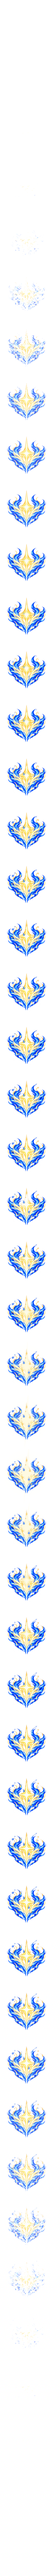
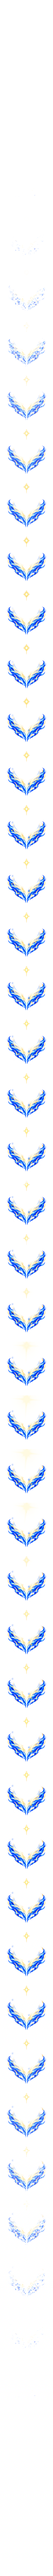
Chakra Overflow animation: crown layout (star on top of the head, character kept clear), in-battle previews, layout guide
Claude-Session: https://claude.ai/code/session_01BK7FehqLqgE1qdDYPV9z98

Changed region(s): [[0.2188, 0.125, 0.7812, 0.875]]

diff --git a/art/jutsu_icons/chakra_overflow/animation/build_strip.py b/art/jutsu_icons/chakra_overflow/animation/build_strip.py
@@ -23,6 +23,12 @@ FIT = 0.80          # composition scaled into the central 80% so the rise and sp
 U = W * FIT / SRC   # raw-pixel to working-pixel factor
 
 STAR_SX, STAR_SY, STAR_DY = 0.84 * 0.80, 0.84, -90   # final star, measured against K4
+# 'crown' layout (director, 2026-10-23: "I like it on top of the head"): measured from the director's battle recording,
+# the frame is centred on the tile and the character token's centre sits 0.283 of the frame from the top, radius 0.248.
+TOKEN_CY, TOKEN_R = 0.283, 0.248
+WINDOW_R = 0.96 * TOKEN_R                               # clear window, just inside the token's white rim
+CROWN_STAR_Y = 0.075                                    # star centre, frame fraction from the top (on top of the head)
+CROWN_STAR = 0.40                                       # star scale for the top-of-head position
 WING_S, WING_DY = 0.98, 10
 
 
@@ -83,11 +89,12 @@ def apply_dissolve(img, field, p, soft=0.14):
     return Image.fromarray(a.clip(0, 255).astype(np.uint8), 'RGBA')
 
 
-def glint_sparkle(size, rot_deg):
+def glint_sparkle(size, rot_deg, cy=None):
     """A crisp four-point lens glint: long thin horizontal and vertical rays, short diagonal rays, a hot core.
     Returned as a white RGBA layer of the working canvas size, centered."""
     yy, xx = np.mgrid[0:W, 0:W].astype(np.float32)
-    cx, cy = W / 2, W / 2 + STAR_DY * U
+    cx = W / 2
+    cy = W / 2 + STAR_DY * U if cy is None else cy
     th = np.deg2rad(rot_deg)
     x = (xx - cx) * np.cos(th) + (yy - cy) * np.sin(th)
     y = -(xx - cx) * np.sin(th) + (yy - cy) * np.cos(th)
@@ -113,16 +120,28 @@ def brighten(img, mask_alpha, amount):
     return Image.fromarray(a.clip(0, 255).astype(np.uint8), 'RGBA')
 
 
-def build(n_frames):
+def build(n_frames, layout="crown"):
     """v5 (director): dissolve in and out with a longer hold, and a glimmer while it holds: a band of light sweeps
     across the star, the star shines brighter, and a crisp four-point glint flares at its heart, then winks out.
     Timeline over the whole run: dissolve in 0-0.27, hold 0.27-0.73 (glint 0.42-0.64), dissolve out 0.73-1."""
     star, wings, flash, sparks = (load(f) for f in ('anim_co_L1_star.png', 'anim_co_L2_wings.png',
                                                      'anim_co_L3_flash.png', 'anim_co_L4_sparks.png'))
-    emblem = Image.new('RGBA', (W, W), (0, 0, 0, 0))
-    place(emblem, wings, WING_S, WING_S, dy=WING_DY)
+    yy0, xx0 = np.mgrid[0:W, 0:W].astype(np.float32)
+    if layout == "crown":
+        # a soft window keeps the character token clear; the star sits on top of the head
+        tcx, tcy, tr = W / 2, TOKEN_CY * W, WINDOW_R * W
+        window = np.clip((np.sqrt((xx0 - tcx) ** 2 + (yy0 - tcy) ** 2) - tr) / (0.35 * tr), 0, 1)
+        star_y = CROWN_STAR_Y * W                            # star centre on the top of the head
+        star_dy, ssx, ssy = (star_y - W / 2) / U, STAR_SX * CROWN_STAR, STAR_SY * CROWN_STAR
+    else:
+        window = np.ones((W, W), np.float32)
+        star_y, star_dy, ssx, ssy = W / 2 + STAR_DY * U, STAR_DY, STAR_SX, STAR_SY
+    wing_img = Image.new('RGBA', (W, W), (0, 0, 0, 0))
+    place(wing_img, wings, WING_S, WING_S, dy=WING_DY)
+    wa = np.asarray(wing_img).astype(np.float32); wa[..., 3] *= window
+    emblem = Image.fromarray(wa.clip(0, 255).astype(np.uint8), 'RGBA')
     star_only = Image.new('RGBA', (W, W), (0, 0, 0, 0))
-    place(star_only, star, STAR_SX, STAR_SY, dy=STAR_DY)
+    place(star_only, star, ssx, ssy, dy=star_dy)
     emblem.alpha_composite(star_only)
     star_mask = np.asarray(star_only)[..., 3].astype(np.float32) / 255
     field = dissolve_field()
@@ -138,27 +157,27 @@ def build(n_frames):
         # 0.555, and the glint flares (0.52-0.555) then winks out to a point (0.555-0.60)
         sweep = seg(t, 0.42, 0.56)
         band_pos = -0.6 + 1.6 * ease_in_out(sweep)
-        diag = ((xx - W / 2) + (yy - W / 2)) / W
+        diag = ((xx - W / 2) + (yy - star_y)) / (W * (0.5 if layout == 'crown' else 1.0))
         band = np.exp(-((diag - band_pos) / 0.11) ** 2) * (0 < sweep < 1)
         glow = np.exp(-((t - 0.57) / 0.06) ** 2)
         layer = brighten(emblem, np.clip(star_mask * (0.9 * band + 0.8 * glow), 0, 1), 1.0)
         # a white bloom around the star at the peak, so "shines brighter" reads on top of an already bright star
         bloom = Image.fromarray(np.dstack([np.full((W, W), 255), np.full((W, W), 248), np.full((W, W), 215),
                                            np.asarray(Image.fromarray((star_mask * 255).astype(np.uint8)).filter(
-                                               ImageFilter.GaussianBlur(10))).astype(np.float32) * 0.85 * glow]).astype(np.uint8), 'RGBA')
+                                               ImageFilter.GaussianBlur(6 if layout == 'crown' else 10))).astype(np.float32) * 0.85 * glow]).astype(np.uint8), 'RGBA')
         if p > 0:
             c.alpha_composite(apply_dissolve(layer, field, p))
             if glow > 0.01:
                 c.alpha_composite(bloom)
         # soft swell of light at the heart as the emblem completes, and a smaller one under the glint
         fl = 0.55 * np.exp(-((t - 0.25) / 0.08) ** 2) + 0.5 * np.exp(-((t - 0.57) / 0.05) ** 2)
-        place(c, flash, 0.42, 0.42, alpha=fl, dy=STAR_DY * 0.6)
+        place(c, flash, 0.42 * (0.5 if layout == 'crown' else 1), 0.42 * (0.5 if layout == 'crown' else 1), alpha=fl, dy=(star_y - W / 2) / U)
         # the glint itself: grows fast, holds a breath, winks out to a point
         if 0.50 <= t <= 0.64:
             grow = ease_out(seg(t, 0.50, 0.56))
             wink = 1 - ease_in_out(seg(t, 0.58, 0.64))
-            size = W * 0.48 * grow * (0.10 + 0.90 * wink)
-            g = glint_sparkle(size, rot_deg=10 * seg(t, 0.50, 0.64))
+            size = W * (0.32 if layout == 'crown' else 0.48) * grow * (0.10 + 0.90 * wink)
+            g = glint_sparkle(size, rot_deg=10 * seg(t, 0.50, 0.64), cy=star_y)
             ga = np.asarray(g).astype(np.float32); ga[..., 3] *= min(1, 1.3 * wink + 0.0) * grow
             c.alpha_composite(Image.fromarray(ga.astype(np.uint8), 'RGBA'))
         # sparks stream upward during the hold and dissolve with the emblem
@@ -167,6 +186,8 @@ def build(n_frames):
         place(s, sparks, 0.95, 0.95, alpha=seg(t, 0.20, 0.32), dy=60 - 160 * sp)
         if p_out < 1:
             s = apply_dissolve(s, 1 - field, p_out)
+        if layout == "crown":
+            sa = np.asarray(s).astype(np.float32); sa[..., 3] *= window; s = Image.fromarray(sa.clip(0, 255).astype(np.uint8), 'RGBA')
         c.alpha_composite(s)
         frames.append(c)
     return frames
@@ -178,8 +199,9 @@ def main():
     ap.add_argument('--ms', type=int, default=2600, help='total duration in ms')
     ap.add_argument('--size', type=int, default=128)
     ap.add_argument('--preview')
+    ap.add_argument('--layout', default='crown', choices=['crown', 'center'])
     a = ap.parse_args()
-    frames = [f.resize((a.size, a.size), Image.LANCZOS) for f in build(a.frames)]
+    frames = [f.resize((a.size, a.size), Image.LANCZOS) for f in build(a.frames, a.layout)]
     strip = Image.new('RGBA', (a.size, a.size * len(frames)), (0, 0, 0, 0))
     for i, f in enumerate(frames):
         strip.paste(f, (0, i * a.size))
